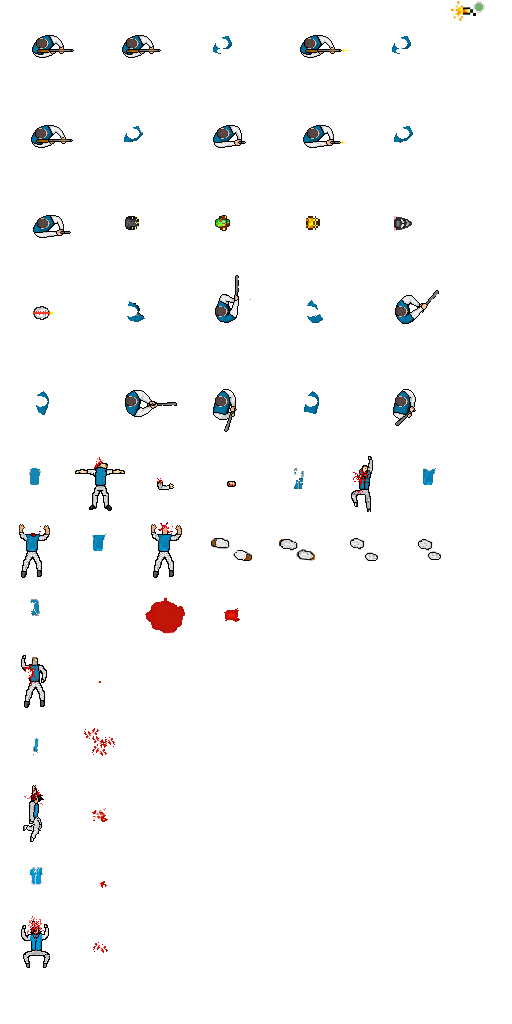
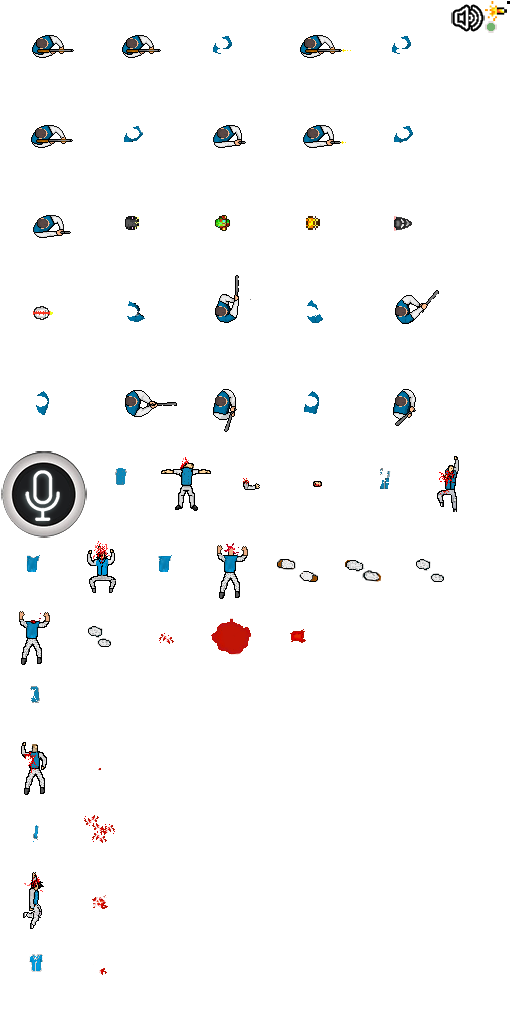
Voise111

diff --git a/core/src/com/mygdx/game/deathmatch/Characters/MainCharacter.java b/core/src/com/mygdx/game/deathmatch/Characters/MainCharacter.java
@@ -22,6 +22,7 @@ import com.mygdx.game.deathmatch.Service.Key_cod;
 import com.mygdx.game.deathmatch.Service.NikName;
 import com.mygdx.game.deathmatch.Service.OperationVector;
 
+import java.awt.Font;
 import java.util.ArrayList;
 import java.util.ConcurrentModificationException;
 import java.util.HashMap;
@@ -34,6 +35,7 @@ public class MainCharacter extends Actor {
 
     AnimationPers animationPers;
 
+    private int voiseNomer; // номер игрока который говорит
 
     private Vector2 cookAngle; // навправление тела
     private Vector2 acceleration; // навправление движения
@@ -53,6 +55,7 @@ public class MainCharacter extends Actor {
     private HelperScreen helperScreen;
 
     private BitmapFont textFont;
+    private TextureRegion microphone;
 
     public Color getMyColorGelet() {
         return myColorGelet;
@@ -89,9 +92,16 @@ public class MainCharacter extends Actor {
         this.live = live;
     }
 
+    public int getVoiseNomer() {
+        return voiseNomer;
+    }
 
+    public void setVoiseNomer(int voiseNomer) {
+        this.voiseNomer = voiseNomer;
+    }
 
     public MainCharacter(MainGaming mg) {
+        this.voiseNomer = Integer.MIN_VALUE;
         this.createDk();
         this.mg = mg;
         this.position = new Vector2(0, 0);
@@ -115,6 +125,7 @@ public class MainCharacter extends Actor {
         for (int i = 1; i < 6; i++) {
             this.maksTexture.add(mg.getAssetsManagerGame().get("character/character", TextureAtlas.class).findRegion("mask" + i));
         }
+        microphone = mg.getAssetsManagerGame().get("character/character", TextureAtlas.class).findRegion("microphone1");
         this.helperScreen = new HelperScreen(this.mg);
 
         lith = new B2lights(mg);
@@ -520,6 +531,31 @@ public class MainCharacter extends Actor {
                                 125, 125,
                                 250, 250,
                                 1.375f, 1.375f, mg.getHero().getOtherPlayers().getRotationToId(key)); // mask
+                    OperationVector.setTemp_vector(mg.getCamera().up.x,mg.getCamera().up.y);
+
+
+                  //  System.out.println(mg.getMainClient().getVoiceChatClient().nVoiseID + " !!! " + key);
+
+
+                  if  (mg.getMainClient().getVoiceChatClient().nVoiseID == key) // динамик
+                    mg.getBatch().draw(microphone,
+                            (xz - 125), (yz - 125),
+                            125, 125,
+                            250, 250,
+                            0.5f, 0.5f,
+                            OperationVector.getTemp_vector().angleDeg() + 90
+                    ); // mask
+
+                   // ник
+
+                    BitmapFont nik = new BitmapFont();
+                   nik.setColor(Color.RED);
+                    nik.draw(mg.getBatch(), otherPlayers.getNikName(key), xz, yz
+
+                        ); // mask
+                    if (key>0) System.out.println(key + "  " + mg.getMainClient().myIdConnect);
+
+
                 } catch (NullPointerException e) {
                     //System.out.println("rener other");
                     //e.printStackTrace();

diff --git a/core/src/com/mygdx/game/deathmatch/MainGaming.java b/core/src/com/mygdx/game/deathmatch/MainGaming.java
@@ -176,8 +176,8 @@ public class MainGaming implements Screen {
 
         }
 
-
         updateVC();
+
         getHud().update();
 
         //   System.out.println("assets:: " + AssetsManagerGame.loadAsset(zk.assetsManagerGame));
@@ -218,6 +218,7 @@ public class MainGaming implements Screen {
         soundtrack.ubdate(dt);
         hud.render(dt);
         this.timeInGame += delta;
+        muteMusic(delta);
 
         getBatch().begin();
         getHero().getPoolBlood().renderAd(getBatch());
@@ -245,23 +246,37 @@ public class MainGaming implements Screen {
         // System.out.println("isVoice " + apInput.isVoice() + "   isInVoise()"+ mainClient.getVoiceChatClient().isInVoise());
 ///////////////[
         //System.out.println(apInput.isVoice());
-        if (mainClient.getVoiceChatClient().isInVoise() || apInput.isVoice())
+
+
+        getHero().setVoiseNomer(getMainClient().getVoiceChatClient().nVoiseID);
+
+
+    }
+
+    private void muteMusic(float drltaTime){}
+
+
+/////////////////
+
+    private void muteSound(float deltaTime){
+        if (mainClient.getVoiceChatClient().isInVoise() || apInput.isVoice()){
             audioEngine.musicGame.muteOut(true);
-        else audioEngine.musicGame.muteOut(false);
+        }
+        else {
+            audioEngine.musicGame.muteOut(false);
+            getHero().setVoiseNomer(Integer.MIN_VALUE);
+        }
 
         if (zk.isAccess_audio_recording() && apInput.isVoice() && !mainClient.getVoiceChatClient().isInVoise()) {
-            if (MathUtils.randomBoolean()) System.out.println("VOISE OUT> >");
-            else System.out.println("VOISE > OUT");
+//            if (MathUtils.randomBoolean()) System.out.println("VOISE OUT> >");
+//            else System.out.println("VOISE > OUT");
             // audioEngine.musicGame.muteOut(true);
-            System.out.println("!!!!!!!!!!");
+            //         System.out.println("!!!!!!!!!!");
 //            // Sends audio data to the server.
             mainClient.getVoiceChatClient().sendVoice(mainClient.client, deltaTime);
         }
 
     }
-
-
-/////////////////
 
 
     public void renderAim() { // отрисовать прицел

diff --git a/core/src/com/mygdx/game/deathmatch/VoiceChat/VoiceChatClient.java b/core/src/com/mygdx/game/deathmatch/VoiceChat/VoiceChatClient.java
@@ -36,6 +36,7 @@ public class VoiceChatClient implements Disposable{
 	private float timer;
 	private boolean ready = true;
 	private boolean inVoise = false;
+	public int nVoiseID = Integer.MIN_VALUE;
 
 	/**
 	 * Creates a new {@link VoiceChatClient} and registers net objects.
@@ -125,7 +126,8 @@ public class VoiceChatClient implements Disposable{
 				inVoise = false;
 				// Only read objects of the correct type.
 				if(object instanceof VoiceNetData){
-					System.out.println("<<--- IN VOISE");
+					//System.out.println("<<--- IN VOISE");
+
 					inVoise = true;
 					// Read data
 					VoiceNetData message = (VoiceNetData)object;					
@@ -133,6 +135,12 @@ public class VoiceChatClient implements Disposable{
 					
 					// Play audio
 					processAudio(data, connection, message);
+					System.out.println("!!::: ___  "+ nVoiseID);
+
+					nVoiseID = message.getId();
+
+
+
 				}
 			}			
 		});

diff --git a/core/src/com/mygdx/game/deathmatch/Pause/PauseScreen.java b/core/src/com/mygdx/game/deathmatch/Pause/PauseScreen.java
@@ -12,6 +12,7 @@ import com.badlogic.gdx.graphics.g2d.TextureRegion;
 import com.badlogic.gdx.graphics.glutils.ShaderProgram;
 import com.badlogic.gdx.math.Interpolation;
 import com.badlogic.gdx.math.MathUtils;
+import com.badlogic.gdx.utils.GdxRuntimeException;
 import com.badlogic.gdx.utils.viewport.FillViewport;
 import com.badlogic.gdx.utils.viewport.FitViewport;
 import com.badlogic.gdx.utils.viewport.StretchViewport;
@@ -109,9 +110,13 @@ public class PauseScreen implements Screen {
 
     private void updaeteVolmeMusic() {
         if (!music.isLooping()) {
+            try {
             music.play();
             music.setVolume(0);
             music.setLooping(true);
+            }catch (GdxRuntimeException e){
+                e.printStackTrace();
+            }
         }
         if (timer / 3 <= 1) {
             music.setVolume(timer / 3);

diff --git a/core/src/com/mygdx/game/deathmatch/HUDAudio/Hud.java b/core/src/com/mygdx/game/deathmatch/HUDAudio/Hud.java
@@ -63,9 +63,7 @@ public class Hud implements Disposable {
 
     Table table2;
 
-
     Float[] ddArrayAlpha = new Float[]{0f, 0f, 0f};
-
 
 
     public int getTimer() {
@@ -265,7 +263,7 @@ public class Hud implements Disposable {
        // voiseOut = false;
         this.deathMess.updateMess(Gdx.graphics.getDeltaTime(), declaration_death1, declaration_death2, declaration_death3);
         this.endingMathHUD.setUpdateToServer(true);//table2.setPosition(MathUtils.random(500),2);
-        Gdx.app.error("voiseOut>>>", String.valueOf(voiseOut));
+       // Gdx.app.error("voiseOut>>>", String.valueOf(voiseOut));
     }
 
 

diff --git a/core/src/com/mygdx/game/deathmatch/HUDAudio/SoundTrack.java b/core/src/com/mygdx/game/deathmatch/HUDAudio/SoundTrack.java
@@ -60,7 +60,7 @@ public class SoundTrack {
 
     }
 
-    public void pleyLostPrimuschestvo(int position, int frag) {
+    public void pleyLostPrimuschestvo(int position, int frag) { // потерл лидером
         if (this.position == 1 && position != 1 && mainGaming.getHud().getMyFrags() > 2) { // больше не лидером
             mainGaming.getHero().getPoolBlood().startingAdLostLead();
           //  if (mainGaming.getHud().getMyFrags() > 1) {

diff --git a/server/src/com/VoiceChat/VoiceChatServer.java b/server/src/com/VoiceChat/VoiceChatServer.java
@@ -41,11 +41,9 @@ public class VoiceChatServer {
 	 * @return True if any data was relayed, false if the data was not audio.
 	 */
 	public boolean relayVoice(Connection connection, Object message, Server server){
-		
 		if(message instanceof VoiceNetData){
-			
+			((VoiceNetData) message).setId(connection.getID());
 			server.sendToAllExceptUDP(connection.getID(), message);
-			
 			return true;
 		}else{
 			return false;

diff --git a/server/src/com/VoiceChat/VoiceNetData.java b/server/src/com/VoiceChat/VoiceNetData.java
@@ -3,16 +3,25 @@ package com.VoiceChat;
 public class VoiceNetData {
 
 	private short[] data;
-	
+	private int id;
+
 	public VoiceNetData(){
-		
+
 	}
-	
-	public VoiceNetData(short[] data){	
+
+	public VoiceNetData(short[] data){
 		this.data = data;
 	}
-	
+
 	public short[] getData(){
 		return data;
+	}
+
+	public int getId() {
+		return id;
+	}
+
+	public void setId(int id) {
+		this.id = id;
 	}
 }

diff --git a/core/src/com/mygdx/game/deathmatch/VoiceChat/VoiceNetData.java b/core/src/com/mygdx/game/deathmatch/VoiceChat/VoiceNetData.java
@@ -3,7 +3,8 @@ package com.mygdx.game.deathmatch.VoiceChat;
 public class VoiceNetData {
 
 	private short[] data;
-	
+	private int id;
+
 	public VoiceNetData(){
 		
 	}
@@ -14,5 +15,13 @@ public class VoiceNetData {
 	
 	public short[] getData(){
 		return data;
+	}
+
+	public int getId() {
+		return id;
+	}
+
+	public void setId(int id) {
+		this.id = id;
 	}
 }

diff --git a/core/src/com/mygdx/game/deathmatch/VoiceChat/VoiceChatServer.java b/core/src/com/mygdx/game/deathmatch/VoiceChat/VoiceChatServer.java
@@ -42,9 +42,8 @@ public class VoiceChatServer {
 	public boolean relayVoice(Connection connection, Object message, Server server){
 		
 		if(message instanceof VoiceNetData){
-			
+			((VoiceNetData) message).setId(connection.getID());
 			server.sendToAllExceptUDP(connection.getID(), message);
-			
 			return true;
 		}else{
 			return false;

diff --git a/server/src/com/VoiceChat/VoiceChatClient.java b/server/src/com/VoiceChat/VoiceChatClient.java
@@ -123,7 +123,6 @@ public class VoiceChatClient implements Disposable{
 					// Read data
 					VoiceNetData message = (VoiceNetData)object;					
 					short[] data = message.getData();
-					
 					// Play audio
 					processAudio(data, connection, message);
 				}

diff --git a/core/src/com/mygdx/game/deathmatch/ClientNetWork/MainClient.java b/core/src/com/mygdx/game/deathmatch/ClientNetWork/MainClient.java
@@ -319,9 +319,7 @@ public class MainClient {
             }
         }
 
-
     }
-
 
     private void sendMyNik() {
         mg.getMainClient().getOutStock().addStockInQuery(new RequestStock(// отправить на сервер
